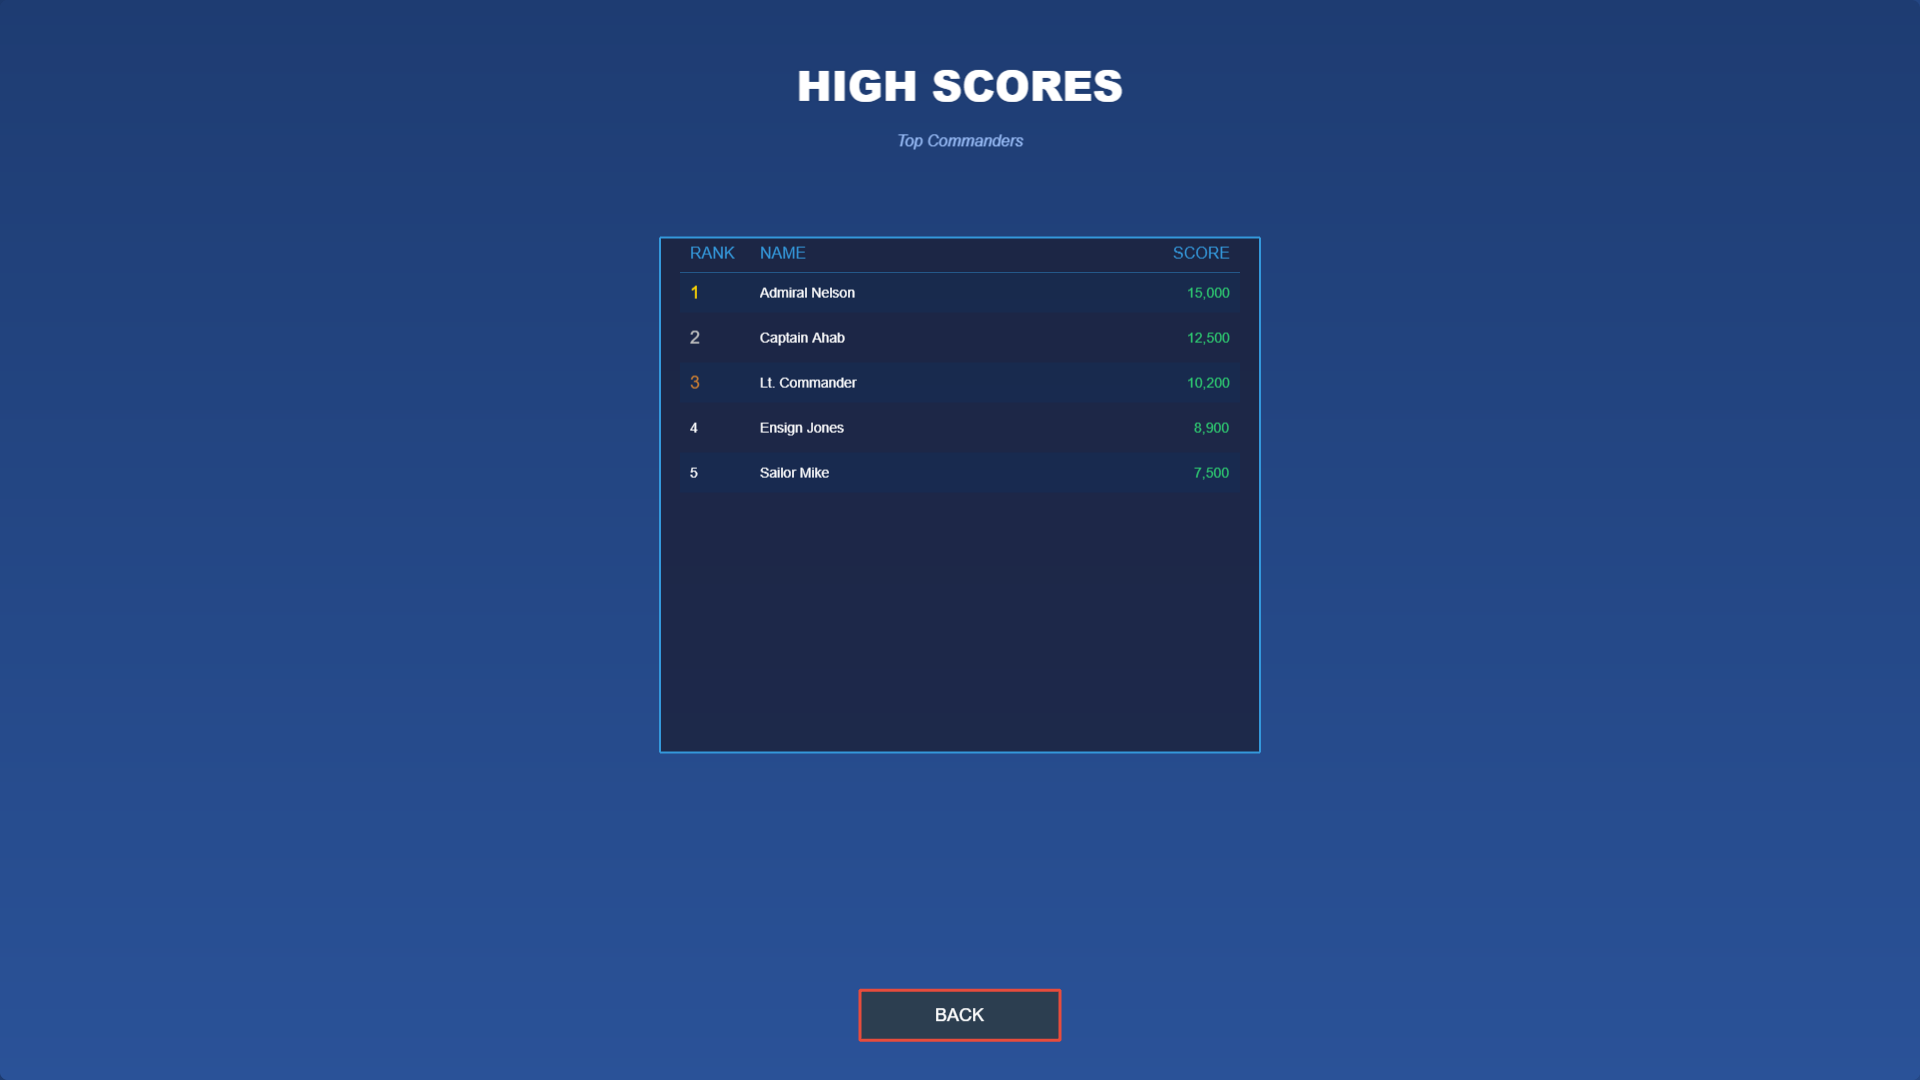
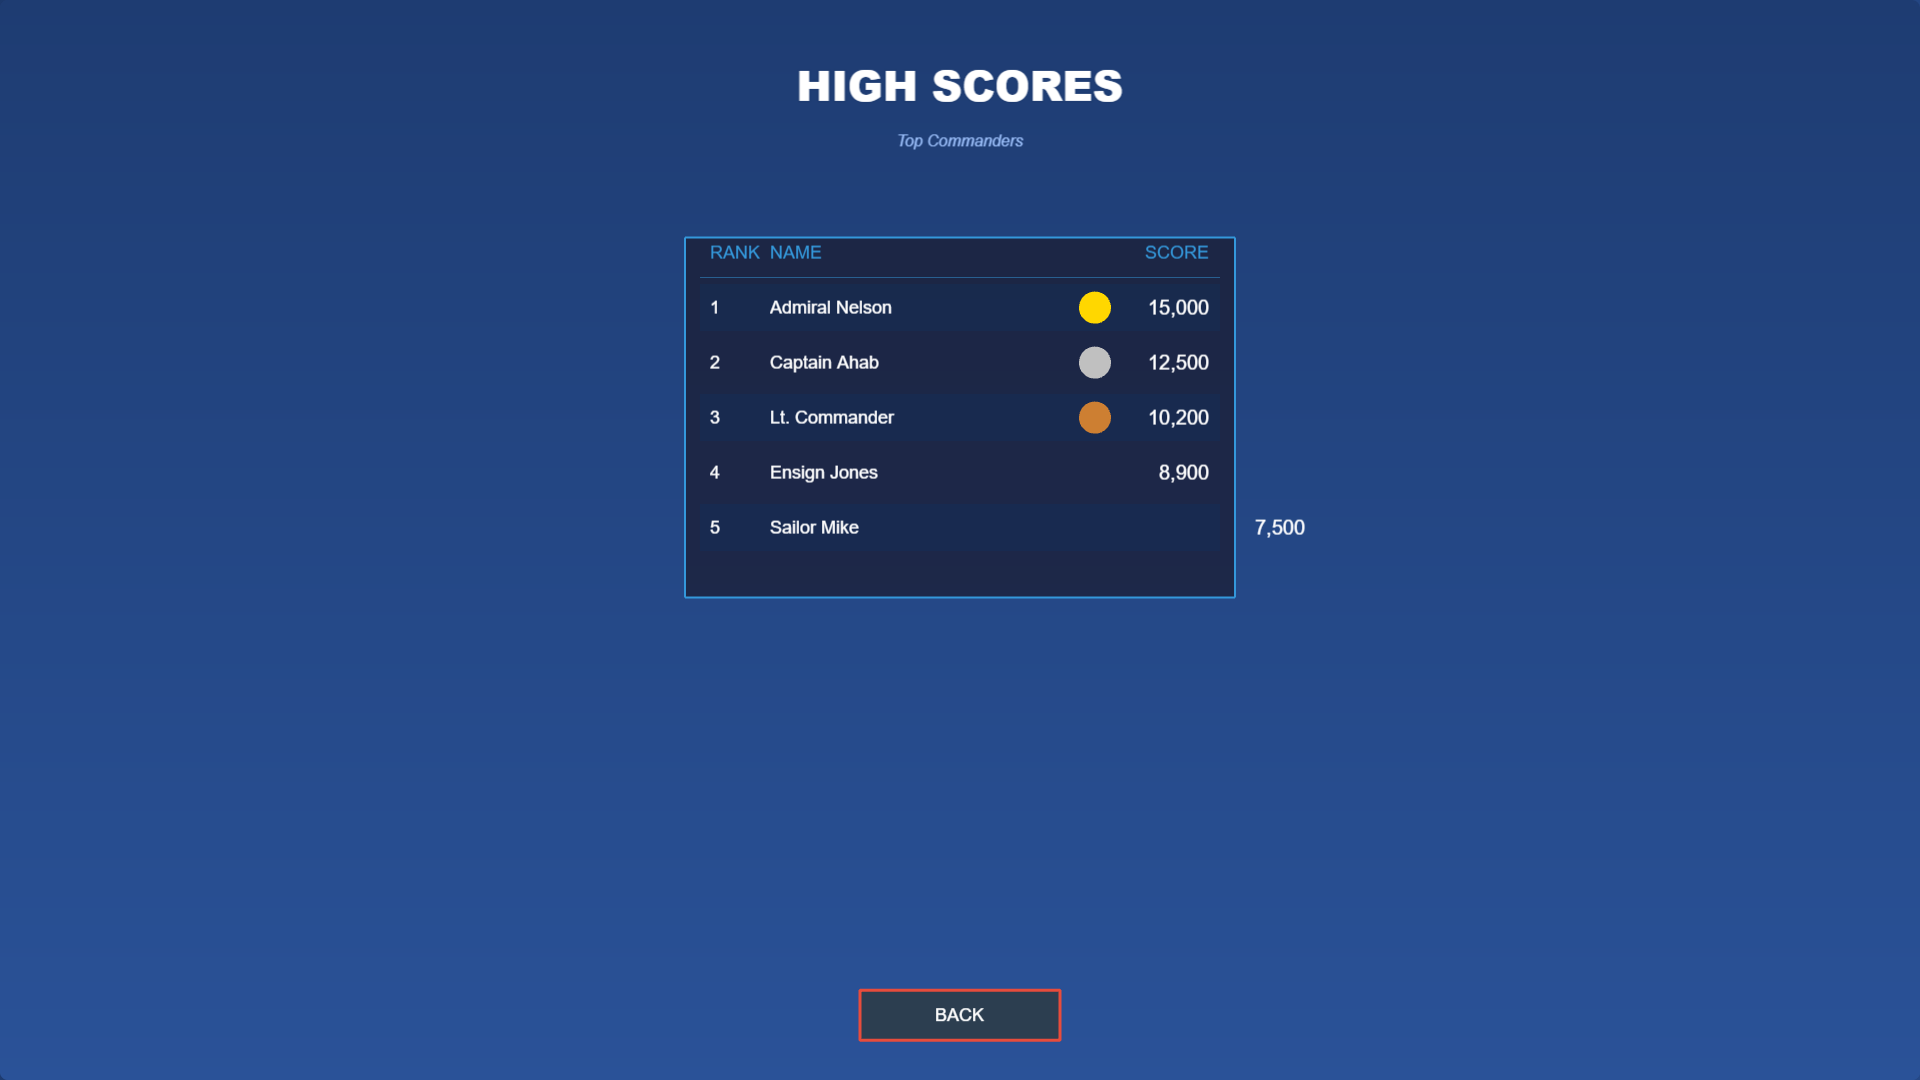
Redesign HighScoresScene to arcade-style leaderboard (top 5 only)
HighScoresScene Changes:
- Reduced maxScores from 10 to 5 (old-school arcade style)
- Made table more compact (smaller width, less wasted space)
- ALL TEXT IS WHITE (rank, name, score - no colored rank numbers)
- Added medal column (4th column): Gold/Silver/Bronze circles for top 3
- Bigger fonts: headers 18px (was 16px), scores 20px (was 14px), rows 18px (was 14px)
- Tighter column spacing (score closer to name)
- Added arcade-style fly-in animation: each row flies in from left to right
- Staggered animation delays (150ms between rows) for classic arcade feel
- Medal circles: Gold (#FFD700), Silver (#C0C0C0), Bronze (#CD7F32)

Table Layout:
- 4 columns: RANK | NAME | MEDAL | SCORE
- Medal positioned between name and score (centered)
- Compact 5-row design eliminates bottom space waste
- Row height: 55px (was variable 35-45px)
- Table height now fits content perfectly - no button overlap

Animation:
- Each element (rank, name, medal, score) flies in separately
- 50ms stagger between elements in same row
- Back.easeOut easing for smooth arcade bounce
- Total animation duration: ~1.5 seconds

User feedback: "Like the old school arcade games. Make score text fly from
left to right when screen loads. Animated."

Verified across all viewports - compact, professional, arcade aesthetic.

🤖 Generated with [Claude Code](https://claude.com/claude-code)

Changed region(s): [[0.3438, 0.2139, 0.6875, 0.7028]]

diff --git a/src/scenes/HighScoresScene.js b/src/scenes/HighScoresScene.js
@@ -15,7 +15,7 @@ export class HighScoresScene extends Phaser.Scene {
     constructor() {
         super({ key: 'HighScoresScene' });
         this.highScores = [];
-        this.maxScores = 10;
+        this.maxScores = 5; // Old-school arcade style - top 5 only
     }
 
     preload() {
@@ -73,26 +73,17 @@ export class HighScoresScene extends Phaser.Scene {
     }
 
     /**
-     * Create scores table with headers and data
+     * Create arcade-style scores table - top 5 only
      */
     createScoresTable(width, height) {
         const startY = height * 0.22;
-        const tableWidth = Math.min(width * 0.9, 600);
+        const tableWidth = Math.min(width * 0.85, 550); // Smaller table
 
-        // Calculate available height for table (leave space for BACK button at bottom)
-        const buttonY = height * 0.94; // BACK button position
-        const buttonHeight = 50;
-        const buttonMargin = 20;
-        const availableHeight = buttonY - buttonHeight - buttonMargin - startY;
-
-        // Adjust row height to fit available space, with min/max limits
-        const maxRowHeight = 45;
-        const minRowHeight = 35;
-        const calculatedRowHeight = availableHeight / (this.maxScores + 1.5); // +1.5 for header and padding
-        const rowHeight = Math.max(minRowHeight, Math.min(maxRowHeight, calculatedRowHeight));
+        // Arcade-style: compact table for 5 scores only
+        const rowHeight = width < 400 ? 50 : 55;
+        const tableHeight = (this.maxScores + 1) * rowHeight + 30;
 
         // Table background
-        const tableHeight = (this.maxScores + 1) * rowHeight + 20;
         const tableBg = this.add.rectangle(
             width / 2, startY + tableHeight / 2,
             tableWidth, tableHeight,
@@ -100,14 +91,15 @@ export class HighScoresScene extends Phaser.Scene {
         );
         tableBg.setStrokeStyle(2, 0x3498db);
 
-        // Responsive column positions - 3 columns only (RANK, NAME, SCORE)
-        const leftMargin = width / 2 - tableWidth / 2 + 30;
+        // 4-column layout: RANK, NAME, MEDAL, SCORE
+        const leftMargin = width / 2 - tableWidth / 2 + 25;
         const rankX = leftMargin;
-        const nameX = leftMargin + (width < 500 ? 50 : 70);
-        const scoreX = width / 2 + tableWidth / 2 - 30;
+        const nameX = leftMargin + (width < 400 ? 45 : 60);
+        const medalX = width / 2 + tableWidth / 2 - (width < 400 ? 110 : 140); // Medal before score
+        const scoreX = width / 2 + tableWidth / 2 - 25;
 
-        // Column headers with responsive font size
-        const headerFontSize = width < 400 ? '14px' : '16px';
+        // Column headers with bigger font
+        const headerFontSize = width < 400 ? '15px' : '18px';
         const headerStyle = {
             fontSize: headerFontSize,
             fontFamily: 'Arial',
@@ -125,73 +117,128 @@ export class HighScoresScene extends Phaser.Scene {
         divider.lineStyle(1, 0x3498db, 0.5);
         divider.lineBetween(
             leftMargin - 10,
-            headerY + 20,
+            headerY + 25,
             scoreX + 10,
-            headerY + 20
+            headerY + 25
         );
 
         // Medal colors for top 3 positions
         const medalColors = {
-            0: '#FFD700', // Gold
-            1: '#C0C0C0', // Silver
-            2: '#CD7F32'  // Bronze
+            0: 0xFFD700, // Gold
+            1: 0xC0C0C0, // Silver
+            2: 0xCD7F32  // Bronze
         };
 
-        // Score rows with responsive font sizes
-        const rowFontSize = width < 400 ? '13px' : '14px';
-        const rowStyle = {
-            fontSize: rowFontSize,
-            fontFamily: 'Arial',
-            fill: '#ffffff'
-        };
+        // Bigger font sizes - arcade style
+        const rowFontSize = width < 400 ? '15px' : '18px';
+        const scoreFontSize = width < 400 ? '16px' : '20px'; // Bigger scores!
 
         if (this.highScores.length === 0) {
             // No scores yet - show message
             this.add.text(width / 2, startY + tableHeight / 2, 'No scores yet!\nBe the first to play!', {
-                fontSize: '18px',
+                fontSize: '20px',
                 fontFamily: 'Arial',
                 fill: '#a0c4ff',
                 align: 'center'
             }).setOrigin(0.5);
         } else {
-            // Display scores
+            // Display scores with fly-in animation (arcade style!)
             this.highScores.forEach((score, index) => {
-                const rowY = headerY + 40 + (index * rowHeight);
+                const rowY = headerY + 55 + (index * rowHeight);
 
-                // Determine rank color (gold/silver/bronze for top 3)
-                const rankColor = medalColors[index] || '#ffffff';
-                const isTopThree = index < 3;
+                // All text is WHITE (no colored rank numbers)
+                const rowStyle = {
+                    fontSize: rowFontSize,
+                    fontFamily: 'Arial',
+                    fill: '#ffffff',
+                    fontWeight: 'normal'
+                };
 
                 // Alternate row background
                 if (index % 2 === 0) {
                     const rowBg = this.add.rectangle(
                         width / 2, rowY,
-                        tableWidth - 40, rowHeight - 5,
+                        tableWidth - 30, rowHeight - 8,
                         0x0f3460, 0.3
                     );
                 }
 
-                // Rank number with color coding for top 3
-                this.add.text(rankX, rowY, (index + 1).toString(), {
-                    fontSize: isTopThree ? '18px' : rowFontSize,
-                    fontFamily: 'Arial',
-                    fill: rankColor,
-                    fontWeight: isTopThree ? 'bold' : 'normal'
+                // Rank number (white text)
+                const rankText = this.add.text(rankX, rowY, (index + 1).toString(), {
+                    ...rowStyle,
+                    fontSize: rowFontSize
                 }).setOrigin(0, 0.5);
 
-                // Name
-                this.add.text(
+                // Name (white text)
+                const nameText = this.add.text(
                     nameX, rowY,
                     score.name || 'Player',
                     rowStyle
                 ).setOrigin(0, 0.5);
 
-                // Score
-                this.add.text(
+                // Medal (small colored circle for top 3)
+                let medal = null;
+                if (index < 3) {
+                    const medalSize = width < 400 ? 12 : 16;
+                    medal = this.add.circle(medalX, rowY, medalSize, medalColors[index]);
+                }
+
+                // Score (white text, bigger font)
+                const scoreText = this.add.text(
                     scoreX, rowY,
                     score.score.toLocaleString(),
-                    { ...rowStyle, fontWeight: 'bold', fill: '#2ecc71' }
+                    {
+                        fontSize: scoreFontSize,
+                        fontFamily: 'Arial',
+                        fill: '#ffffff',
+                        fontWeight: 'bold'
+                    }
                 ).setOrigin(1, 0.5);
+
+                // Arcade-style fly-in animation (left to right!)
+                const animDelay = 500 + (index * 150); // Stagger each row
+                const animDuration = 400;
+
+                // Start all elements off-screen to the left
+                rankText.setX(rankText.x - width);
+                nameText.setX(nameText.x - width);
+                if (medal) medal.setX(medal.x - width);
+                scoreText.setX(scoreText.x - width);
+
+                // Animate flying in from left
+                this.tweens.add({
+                    targets: rankText,
+                    x: rankX,
+                    delay: animDelay,
+                    duration: animDuration,
+                    ease: 'Back.easeOut'
+                });
+
+                this.tweens.add({
+                    targets: nameText,
+                    x: nameX,
+                    delay: animDelay + 50,
+                    duration: animDuration,
+                    ease: 'Back.easeOut'
+                });
+
+                if (medal) {
+                    this.tweens.add({
+                        targets: medal,
+                        x: medalX,
+                        delay: animDelay + 100,
+                        duration: animDuration,
+                        ease: 'Back.easeOut'
+                    });
+                }
+
+                this.tweens.add({
+                    targets: scoreText,
+                    x: scoreX,
+                    delay: animDelay + 150,
+                    duration: animDuration,
+                    ease: 'Back.easeOut'
+                });
             });
         }
     }
